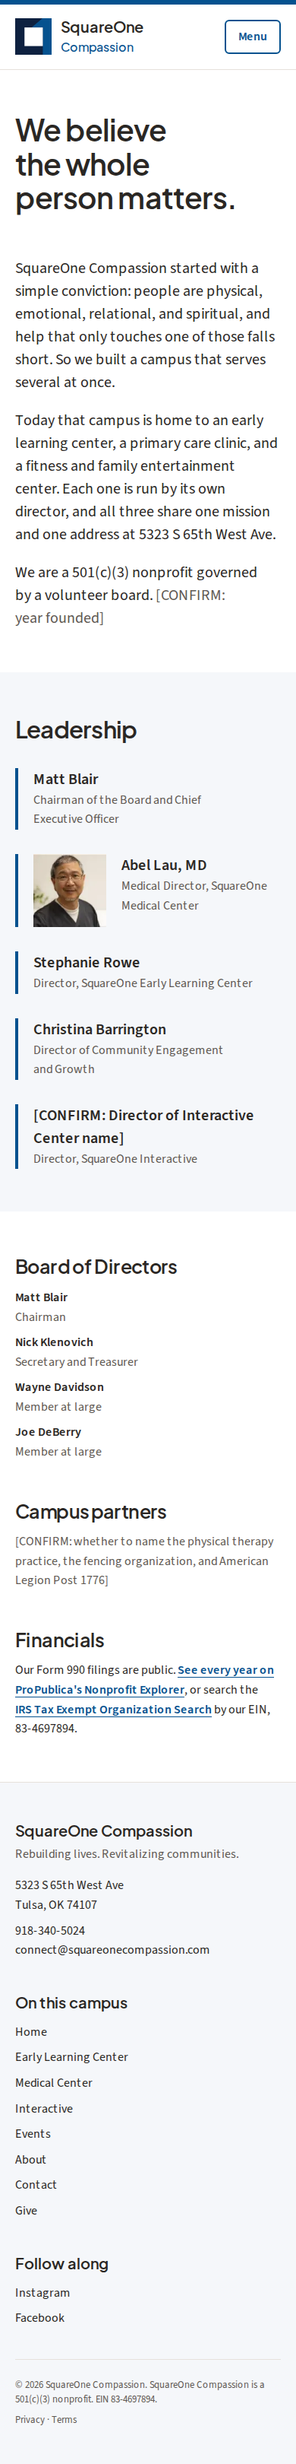
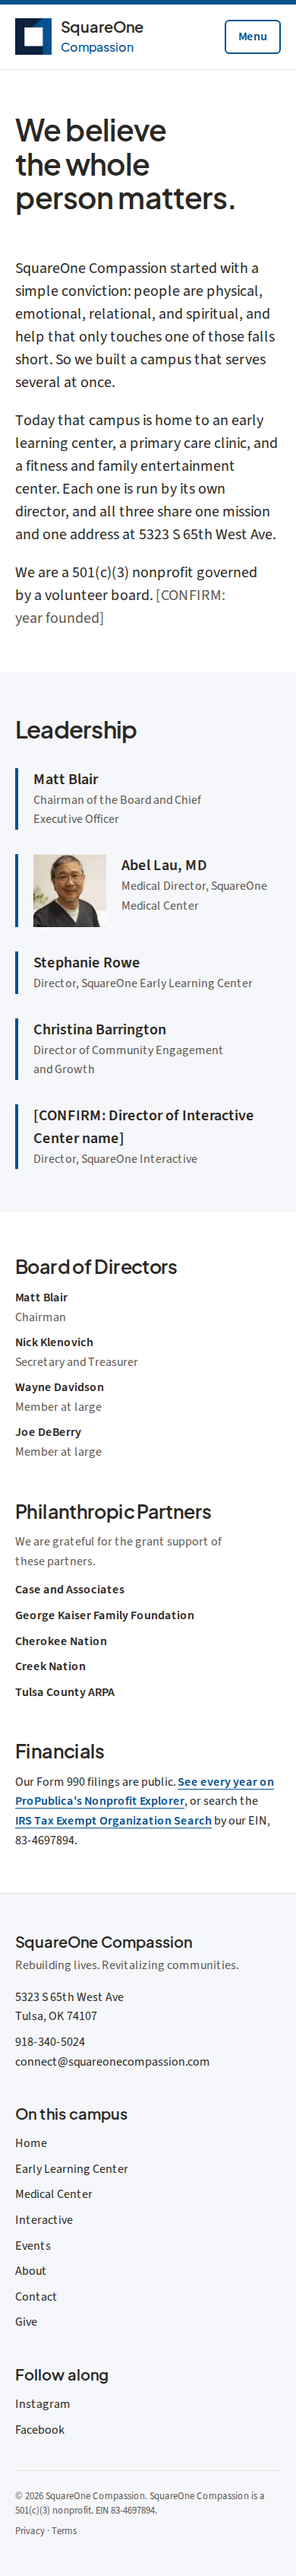
Replace Campus partners with Philanthropic Partners on the About page
No partner organizations are in the building, so that block is removed.
In its place, the grant funders: Case and Associates, George Kaiser
Family Foundation, Cherokee Nation, Creek Nation, Tulsa County ARPA.

Claude-Session: https://claude.ai/code/session_01Dy1NBE1CDjARVuM4emY1ru

diff --git a/app/about/page.tsx b/app/about/page.tsx
@@ -12,6 +12,8 @@ const BOARD = [
   { name: 'Joe DeBerry', role: 'Member at large' },
 ]
 
+const PARTNERS = ['Case and Associates', 'George Kaiser Family Foundation', 'Cherokee Nation', 'Creek Nation', 'Tulsa County ARPA']
+
 export const metadata: Metadata = { title: 'About', description: 'SquareOne Compassion is a 501(c)(3) nonprofit campus in west Tulsa, home to an early learning center, a primary care clinic, and a fitness and family entertainment center.' }
 
 export default function AboutPage() {
@@ -58,10 +60,15 @@ export default function AboutPage() {
             </ul>
           </div>
           <div>
-            <h2 className="text-xl">Campus partners</h2>
-            <p className="mt-3">
-              <Confirm>whether to name the physical therapy practice, the fencing organization, and American Legion Post 1776</Confirm>
-            </p>
+            <h2 className="text-xl">Philanthropic Partners</h2>
+            <p className="mt-3 text-muted">We are grateful for the grant support of these partners.</p>
+            <ul className="mt-3 space-y-2">
+              {PARTNERS.map((p) => (
+                <li key={p} className="font-semibold text-ink">
+                  {p}
+                </li>
+              ))}
+            </ul>
           </div>
           <div>
             <h2 className="text-xl">Financials</h2>

diff --git a/content/COPY.md b/content/COPY.md
@@ -86,8 +86,15 @@ We are a 501(c)(3) nonprofit governed by a volunteer board. `[CONFIRM: year foun
 - Wayne Davidson, Member at large
 - Joe DeBerry, Member at large
 
-**Campus partners**
-`[CONFIRM: whether to name the physical therapy practice, the fencing organization, and American Legion Post 1776]`
+**Philanthropic Partners**
+We are grateful for the grant support of these partners.
+- Case and Associates
+- George Kaiser Family Foundation
+- Cherokee Nation
+- Creek Nation
+- Tulsa County ARPA
+
+(Campus partners block removed: no partner organizations are in the building at this time.)
 
 **Financials**
 Our Form 990 filings are public. See every year on ProPublica's Nonprofit Explorer (https://projects.propublica.org/nonprofits/organizations/834697894), or search the IRS Tax Exempt Organization Search (https://apps.irs.gov/app/eos/) by our EIN, 83-4697894.

diff --git a/CONFIRM.md b/CONFIRM.md
@@ -49,7 +49,7 @@ See `.env.example`. Without these:
 - [ ] Year founded
 - [ ] Director of Interactive Center name
 - [x] Board of Directors listed (Matt Blair, Nick Klenovich, Wayne Davidson, Joe DeBerry)
-- [ ] Whether to name campus partners (physical therapy practice, fencing organization, American Legion Post 1776)
+- [x] Campus partners block removed; replaced with Philanthropic Partners (grant funders)
 - [x] Financials block links to ProPublica's Nonprofit Explorer by EIN (lists every year automatically) and the IRS Tax Exempt Organization Search.
 
 ### Early Learning Center
